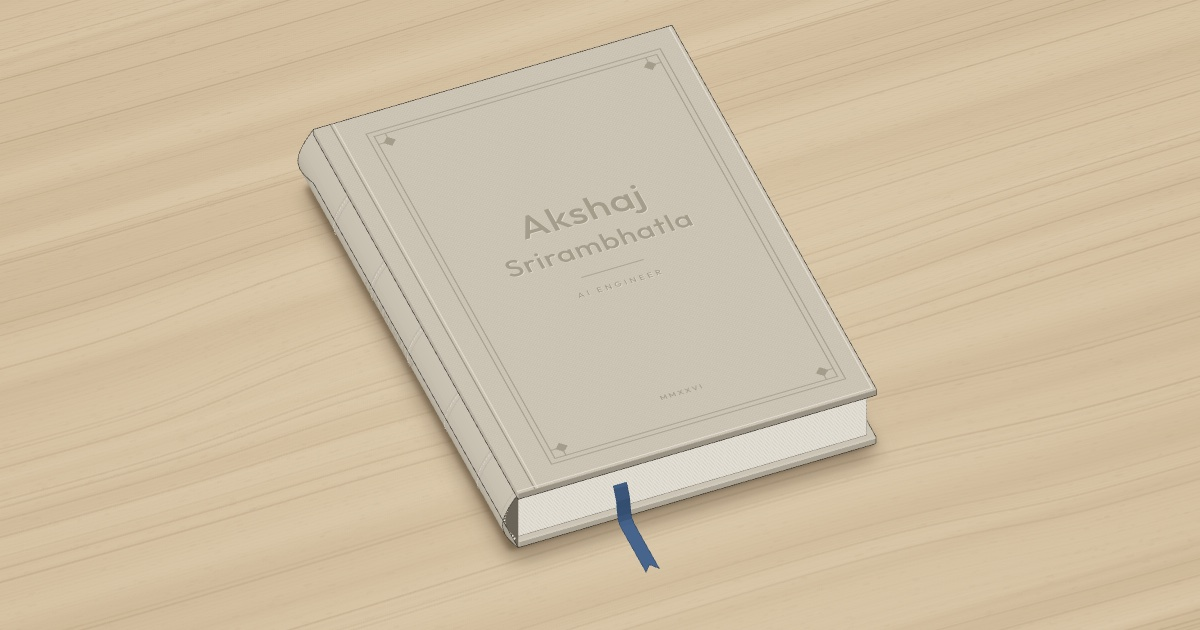
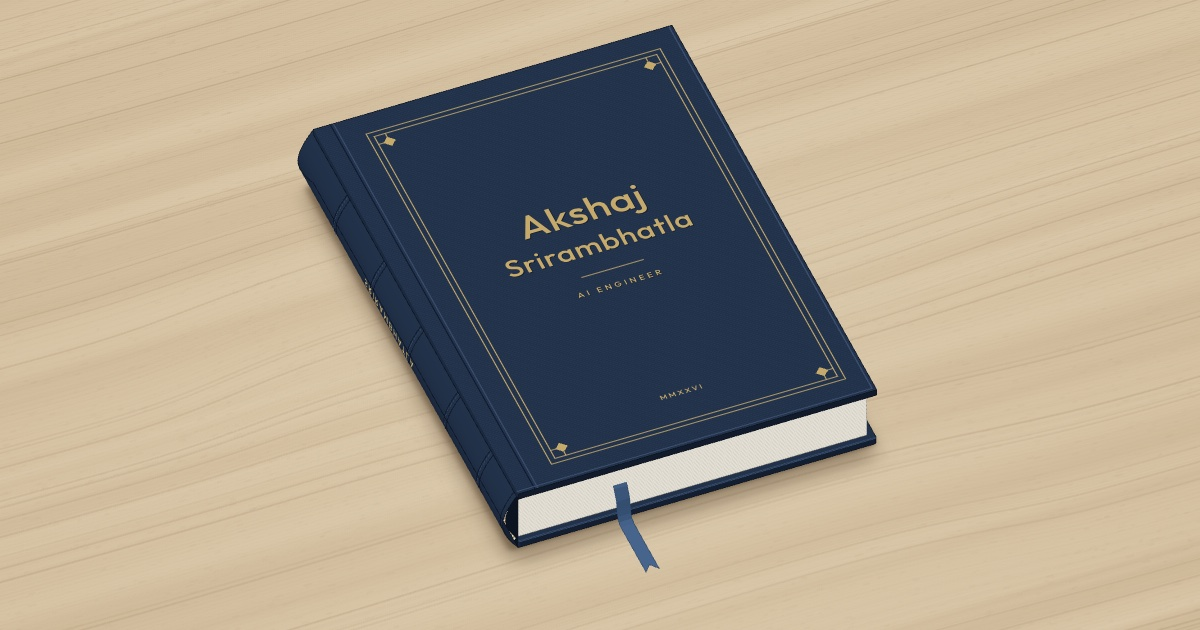
Bind the book in navy cloth with gold foil
The boards, spine, board edges and the cloth turned in round the pastedown
are navy book cloth; the title, border frame, corner ornaments and spine
title are stamped in antique gold foil, with darker navy edges and raised
bands. The pages and endpapers are unchanged. The share image shows it.

Changed region(s): [[0.2467, 0.0302, 0.74, 0.8746], [0.5242, 0.7238, 0.6783, 0.8143], [0.6783, 0.6635, 0.74, 0.7238]]

diff --git a/src/site.css b/src/site.css
@@ -26,11 +26,14 @@
   --page-shade: #d6d1c5;
   --page-rule: #d2cdc2;
   --pencil: #8e8b84;
-  --cloth: #cbc4b4;
-  --cloth-shade: #958d7d;
-  --cloth-ink: #a59d8c;
-  --cloth-light: #e2dccf;
-  --cloth-weave: #b3ab9a;
+  /* The book's case: navy book cloth, stamped in antique gold foil. */
+  --cloth: #22324a;
+  --cloth-shade: #0f1828;
+  --cloth-light: #3b5070;
+  --cloth-weave: #172338;
+  --cloth-edge: #0a101c;
+  --foil: #c6aa6c;
+  --foil-edge: #101a2a;
   --marble-a: #e8e3d8;
   --marble-b: #d8d1c2;
   --marble-c: #efebe3;
@@ -190,7 +193,9 @@ html.intro-pending .site, html.intro-playing .site { opacity: 0; transform: tran
   --anatomy-halo: #4a3824; --anatomy-halo-opacity: 0.38;
 }
 .bk-block { --anatomy-top: var(--paper); --anatomy-shade-0: #e2ddd2; --anatomy-shade-1: #e8e4da; --anatomy-shade-2: #edeae2; --anatomy-shade-3: #f1eee8; }
-.bk-cloth { --anatomy-paper: var(--cloth); --anatomy-top: var(--cloth); --anatomy-shade-0: #9d9585; --anatomy-shade-1: #aaa292; --anatomy-shade-2: #b6af9f; --anatomy-shade-3: #c1baaa; }
+.bk-cloth { --anatomy-paper: var(--cloth); --anatomy-top: var(--cloth); --anatomy-shade-0: #0e1625; --anatomy-shade-1: #131e31; --anatomy-shade-2: #18253c; --anatomy-shade-3: #1d2b44; }
+/* Edges and creases on the navy case: a darker navy, not the grey used on paper. */
+.bk-cloth, .bk-cover, .bk-spine { --anatomy-hi: var(--cloth-edge); --anatomy-lo: var(--cloth-edge); --anatomy-faint: var(--cloth-light); }
 
 /* What is printed on the pages scales with the book, unlike the kit's hairlines. */
 .iso-svg [class*="pc-"], .iso-svg [class*="bk-"] { vector-effect: none; }
@@ -219,16 +224,16 @@ html.intro-pending .site, html.intro-playing .site { opacity: 0; transform: tran
 .pc-groove { fill: none; stroke: var(--cloth-shade); stroke-width: 0.45; }
 .pc-groove-hi { fill: none; stroke: var(--cloth-light); stroke-width: 0.45; }
 .pc-bevel { fill: none; stroke: var(--cloth-light); stroke-width: 0.5; }
-.pc-stamp { fill: var(--cloth-ink); }
-.pc-stamp-hi { fill: var(--cloth-light); }
-.pc-stamp-line { fill: none; stroke: var(--cloth-ink); stroke-width: 0.45; }
+.pc-stamp { fill: var(--foil); }
+.pc-stamp-hi { fill: var(--foil-edge); } /* the debossed edge the foil sits in */
+.pc-stamp-line { fill: none; stroke: var(--foil); stroke-width: 0.45; }
 .pc-under { fill: var(--paper); }
 .pc-under-edge { fill: none; stroke: #c4bfb4; stroke-width: 0.3; }
 .pc-flap { fill: #e4dfd4; }
 .pc-flap-edge { fill: none; stroke: #a7a297; stroke-width: 0.35; stroke-linejoin: round; }
-.bk-cavity { fill: #6a6458; }
-.bk-headband { fill: none; stroke: #ece6d9; stroke-width: 2; stroke-linecap: round; }
-.bk-headband-bead { fill: none; stroke: #6a6458; stroke-width: 2; stroke-dasharray: 0.8 0.8; }
+.bk-cavity { fill: #0c1422; }
+.bk-headband { fill: none; stroke: #e9e1cc; stroke-width: 2; stroke-linecap: round; }
+.bk-headband-bead { fill: none; stroke: #9a8458; stroke-width: 2; stroke-dasharray: 0.8 0.8; }
 .bk-crown { fill: none; stroke: var(--cloth-light); stroke-width: 0.6px; vector-effect: non-scaling-stroke; }
 
 /* Reduced motion: the gentle version. Only opacity changes; nothing slides, zooms or turns. */

diff --git a/AGENTS.md b/AGENTS.md
@@ -44,7 +44,10 @@ only opacity changing (`GENTLE_HOLD` in `intro.mjs`, the reduced-motion block in
 - **No shadows or glows.** Separation comes from 1px rules (`--rule`, `--rule-strong`).
   The one exception is the soft halo under the book in the intro, which is part of the object.
 - **One accent.** Muted blue `--accent` (#46648c) only for the lit part: the silk ribbon in
-  the book, and hover states on links. No other colour.
+  the book, and hover states on links. No other colour in the site's own UI.
+- **The book's case is navy cloth stamped in antique gold foil** (`--cloth*`, `--foil*` in
+  `site.css`): colours of the object, like the oak table, not of the interface. The pages,
+  endpapers and everything printed on them stay on paper.
 - **Type.** Outfit (`--display`) for the name, headings and anything stamped or set in the
   book; Source Serif 4 (`--serif`) for body text; the system monospace (`--mono`) for labels,
   dates and numbers.
